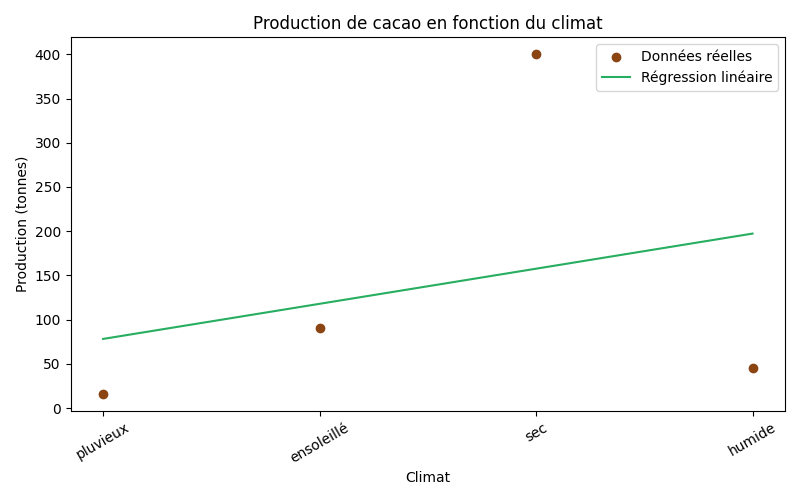
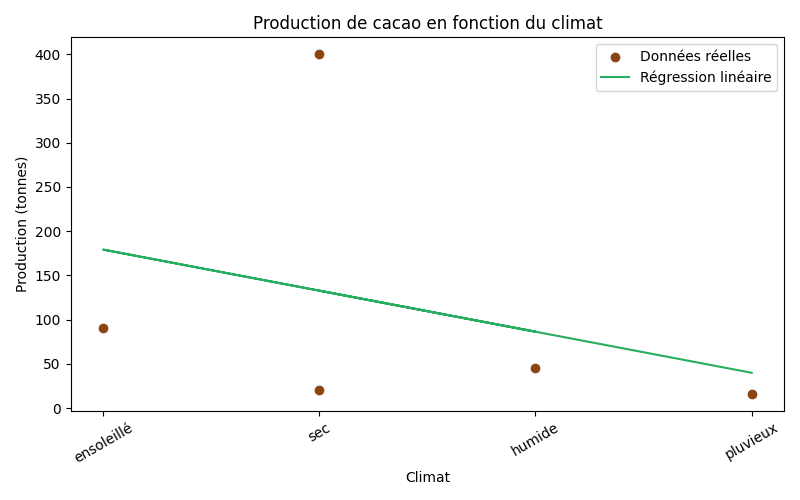
modifier le visualize

diff --git a/templates/visualize.html b/templates/visualize.html
@@ -34,14 +34,6 @@
             <td>{{ prod.price }}</td>
             <td>{{ prod.reason_price }}</td>
             <td class="problem-cell">{{ prod.problems }}</td>
-
-        <tr>
-            <td>{{ prod.date }}</td>
-            <td>{{ prod.quantity }}</td>
-            <td class="climate-cell">{{ prod.climate }}</td>
-            <td>{{ prod.price }}</td>
-            <td>{{ prod.reason_price }}</td>
-            <td class="problem-cell">{{ prod.problems }}</td>
             <td>{{ prod.other_observations }}</td>
         </tr>
         {% endfor %}

diff --git a/app.py b/app.py
@@ -69,7 +69,6 @@ def submit():
 @app.route("/visualize")
 def visualize():
     productions = Production.query.all()
-
     if productions:
         climates = list(set([prod.climate for prod in productions]))
         climate_map = {c: i for i, c in enumerate(climates)}
